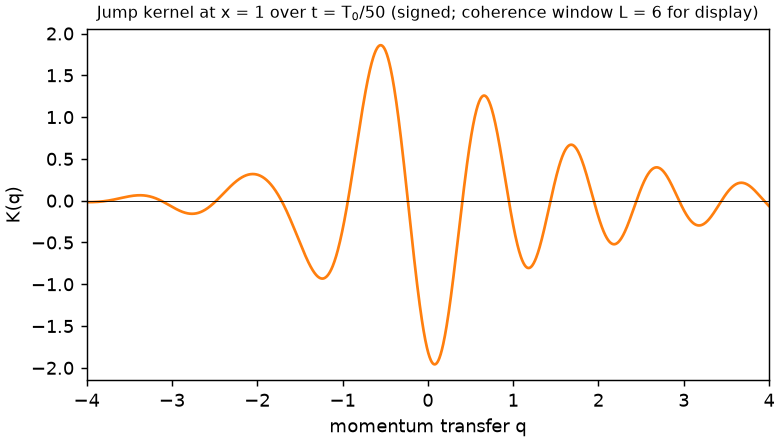
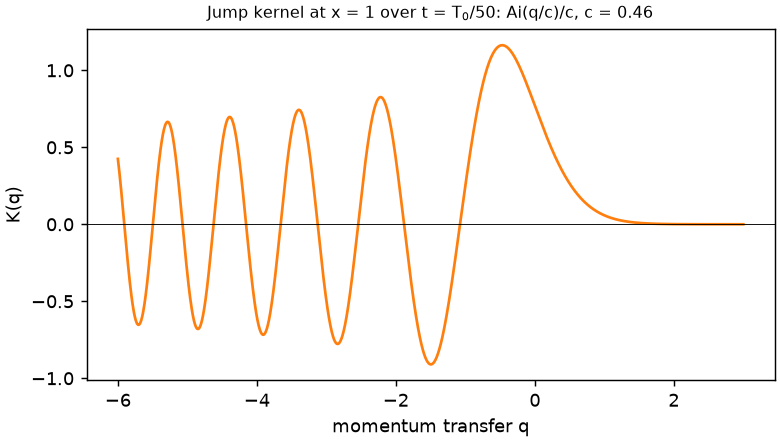
Add section on classical trajectories with signed momentum jumps
New §6.2 (sec:jumps): the integral form of the Wigner equation read as free
classical flight plus signed pair jumps; kernel moments; the lattice case,
where the force is a centered difference in p with step hbar k; the Airy
kernel for x^4/4; numerical check; sign problem; credits Nedjalkov et al.
(2004) and Sellier (2015).  Corrects the §6.1 sentence that called the exact
form Liouville flow in a modified potential.

Adds lattice_jump_sim.py and fixes kernel.png, which showed window ringing
rather than the exact Airy kernel.

diff --git a/paper.tex b/paper.tex
@@ -270,7 +270,7 @@ with $\hat{V}(x,0,t) = V(x,t)$.  By the fundamental theorem of calculus,
 \begin{equation}\label{eq:lg-identity}
 \hat{p}\,\frac{\partial \hat{V}}{\partial x} = V(x+\hat{p}/2,t) - V(x-\hat{p}/2,t)
 \end{equation}
-holds exactly.  Replacing $V$ by $\hat{V}$ in the Fourier-transformed Liouville equation (\ref{eq:w-hat-pde-vprime}) therefore yields (\ref{eq:w-hat-pde}) with no remainder: \emph{Schr\"odinger dynamics in the potential $V$ is classical Liouville dynamics, in the $\hat{w}$ representation, in the looking-glass potential $\hat{V}$.}  Applied to the potential as well as to the distribution, the looking-glass transform is an exact equivalence.  The only change is that the force $-\partial V/\partial x$ at the point $x$ is replaced by its average over the segment from $z_-$ to $z_+$.
+holds exactly.  Replacing $V$ by $\hat{V}$ in the force term of the Fourier-transformed Liouville equation (\ref{eq:w-hat-pde-vprime}) therefore yields (\ref{eq:w-hat-pde}) with no remainder.  The only change is that the force $-\partial V/\partial x$ at the point $x$ is replaced by its average over the segment from $z_-$ to $z_+$.  Because $\hat{V}$ depends on $\hat{p}$, this is not Liouville flow in a modified potential: back in phase space the averaged force acts by convolution in $p$ (below), and Section~\ref{sec:jumps} reads the result as classical trajectories with signed momentum jumps.
 
 The correction is the difference $\delta\hat{V} = \hat{V} - V$.  Expanding (\ref{eq:lg-potential}) in a Taylor series,
 \begin{equation}\label{eq:lg-series}
@@ -297,6 +297,70 @@ J_p(x,p,t) = -\frac{\partial V}{\partial x}\,w - \int_{-\infty}^{+\infty} dq\, \
 The first term is the classical flux of (\ref{eq:classical-pde}); the second is the whole quantum correction.  For a quadratic potential $\delta V = -(\hbar^2 V''/24)\,\delta''(q)$ does not depend on $x$, so the correction vanishes.  For $V = x^4/4$, $\delta V = -(\hbar^2x^2/8)\,\delta''(q) + (\hbar^4/320)\,\delta''''(q)$, which reproduces the $\hbar^2$ term above.  The correction is local in $x$ but spread over momentum transfers $q$, so it is not an ordinary Hamiltonian function $H(x,p)$ entering through a Poisson bracket; because the dynamics keeps its flux form, a uniform background $w \rightarrow w + c$ remains invisible to it, as in Section~\ref{sec:positivity}.
 
 The size of the correction is set by the coherence length rather than by $\hbar$ alone.  The variable $\hat{p} = z_+ - z_-$ is the separation between the two branches, and the correction is negligible when $\hat{w}$ is concentrated at $|\hat{p}|$ small compared with the length over which $\partial^2 V/\partial x^2$ varies.  A smooth distribution of momentum width $\Delta p$ has $|\hat{p}| \lesssim \hbar/\Delta p$ and sees almost the bare potential.  An energy eigenstate carries coherence across its entire classical orbit, so its averaging segment is as long as the orbit and the correction is of order one at every quantum number, the semiclassical regime included.  Filamentation narrows a classical distribution in $p$ and so widens $\hat{w}$ in $\hat{p}$: the averaging segment grows with time, which is the mechanism of the secular divergence described above.  The same coefficient $1/24$ appears in the Feynman--Hibbs effective potential of quantum statistical mechanics \cite{feynman1965}, a Gaussian thermal smearing of $V$ whose leading correction is $(\hbar^2\beta/24M)\,\partial^2 V/\partial x^2$.
+
+\subsection{Classical trajectories with signed momentum jumps}\label{sec:jumps}
+Section~\ref{sec:lg-potential} kept the classical force and added a correction.  Returning the \emph{whole} force term of (\ref{eq:w-hat-pde}) to phase space gives a simpler picture: particles fly freely between events, and the force acts by moving signed weight across finite momentum transfers.  In (\ref{eq:w-hat-pde}) the force enters as the multiplier $\hat{w}_t = (i/\hbar)[V(z_+,t)-V(z_-,t)]\,\hat{w} + \cdots$.  A product in $\hat{p}$ is a convolution in $p$, so, with nothing dropped,
+\begin{equation}\label{eq:jump-equation}
+w_t + \frac{p}{M}\,w_x = \int_{-\infty}^{+\infty} dq\; \Theta(x,q,t)\, w(x,p-q,t) \,,
+\end{equation}
+\begin{equation}\label{eq:jump-kernel}
+\Theta(x,q,t) = \int_{-\infty}^{+\infty} \frac{d\hat{p}}{2\pi\hbar}\, e^{+i\hat{p}q/\hbar}\, \frac{i}{\hbar}\left[V(x+\hat{p}/2,t) - V(x-\hat{p}/2,t)\right] \,.
+\end{equation}
+This is the integral form of the Wigner equation \cite{wigner1932,hillery1984}.  The bracket is real and odd in $\hat{p}$, so $\Theta$ is real and odd in $q$.  The left side of (\ref{eq:jump-equation}) is classical free flight; the right side replaces the classical force term $(\partial V/\partial x)\, w_p$, which corresponds to the kernel $(\partial V/\partial x)\,\delta'(q)$.  The difference between the two kernels, $\partial^2 \delta V/\partial q\,\partial x$, is the correction flux of (\ref{eq:lg-flux}).
+
+Read (\ref{eq:jump-equation}) as a rule for particles.  Because $\Theta$ is odd, its effect comes in pairs: in a time $dt$, a particle at $(x,p)$ produces a copy of weight $+\Theta(x,q)\,dq\,dt$ at $p+q$ and a copy of the opposite weight at $p-q$, for each $q > 0$.  The moments of the kernel say what these pairs do:
+\begin{equation}\label{eq:jump-moments}
+\int \Theta\, dq = 0 \,, \qquad
+\int q\,\Theta\, dq = -\frac{\partial V}{\partial x} \,, \qquad
+\int q^2\,\Theta\, dq = 0 \,, \qquad
+\int q^3\,\Theta\, dq = \frac{\hbar^2}{4}\frac{\partial^3 V}{\partial x^3} \,.
+\end{equation}
+The pairs create no probability.  On average they deliver exactly the classical force, and at each $x$ they change the first two momentum moments of $w$ exactly as the classical force does.  They first differ from the classical force at the third moment; expanding $w(x,p-q)$ in powers of $q$ recovers the Moyal series (\ref{eq:moyal-full}) term by term.  The motion between events is classical and the average push is classical; what is not classical is that weight branches into signed pairs, so this is not a Liouville flow along a Hamiltonian vector field.
+
+\textit{A lattice: discrete jumps.}  For a single Fourier mode the kernel is a pair of delta functions.  For $V = -V_0 \cos kx$,
+\begin{equation}\label{eq:jump-lattice}
+w_t + \frac{p}{M}\,w_x = \frac{V_0 \sin kx}{\hbar}\left[ w\!\left(x,p+\tfrac{\hbar k}{2},t\right) - w\!\left(x,p-\tfrac{\hbar k}{2},t\right) \right] \,.
+\end{equation}
+The force term is a centered difference in momentum with step $\hbar k$, the counterpart of the centered difference in position (\ref{eq:approximation-derivative}) on which the looking-glass transform is built, and it becomes $(\partial V/\partial x)\,w_p$ as $\hbar k \rightarrow 0$.  Every jump is exactly $\pm\hbar k/2$, and a general potential contributes such a pair of jumps for each of its Fourier components.  The half-step is a feature of $w$, not of measured momenta: $w$ places interference terms midway between momentum components, and these integrate to zero over $x$.
+
+\textit{Polynomial potentials: Airy jumps.}  For a polynomial potential $\Theta$ is a finite sum of derivatives of $\delta(q)$, and (\ref{eq:jump-equation}) is the terminating Moyal equation.  The jumps then appear over a finite time step $\Delta t$.  For $V = x^4/4$, the classical kick plus the residual multiplier $\exp(i\,\Delta t\, x\hat{p}^3/4\hbar)$ is exact, and the residual's kernel is an Airy function,
+\begin{equation}\label{eq:jump-airy}
+K_{\Delta t}(x,q) = \frac{1}{|c|}\,\mathrm{Ai}\!\left(\frac{q}{c}\right) \,, \qquad c = \left(\frac{3\hbar^2 x\, \Delta t}{4}\right)^{1/3} \,.
+\end{equation}
+Its width grows as $(\hbar^2\Delta t)^{1/3}$: the redistribution is neither a drift nor a diffusion.
+
+\textit{Numerical check.}  We tested (\ref{eq:jump-equation}) against exact quantum evolution in an eigenbasis ($\hbar = M = 1$), applying the jump kernel deterministically to $w$ on a phase-space grid.  The classical baseline evolves the same initial $w$ without jumps.  In the quartic well $V = x^4/4$, over six classical periods $T_0$, we evolved the ground state and a Gaussian of width $0.6$ displaced to $x = 1.5$.  In the lattice $V = -20\cos 2\pi x$, we evolved a Gaussian of width $1.5$ sites at rest on a well, in a periodic box of 64 sites; there the classical baseline is $4\times10^5$ sampled trajectories, because classical filaments outrun any fixed momentum grid.  Table~\ref{tab:jumps} reports the total-variation distance between the Born densities $\int w\,dp$ and the exact $|\Psi|^2$.  Figure~\ref{fig:jumps} shows the quartic case.  In the lattice, 97\% of the classical particles start below the barrier and stay trapped in their wells; with the jumps the packet spreads through the lattice by tunnelling, and its width follows the exact quantum width (Figure~\ref{fig:lattice}).  Since (\ref{eq:jump-equation}) is an identity, agreement is guaranteed up to discretization.  The tests check the decomposition, and they measure how much of the dynamics the jumps carry: all of the difference between classical and quantum evolution.
+
+\begin{table}[htbp]
+\centering
+\begin{tabular}{lcc}
+\hline
+Born-density distance from exact quantum & classical flow & trajectories $+$ jumps \\
+\hline
+Quartic ground state, $t \le 6T_0$ & $0.063$ & $< 10^{-5}$ \\
+Quartic displaced Gaussian, $t \le 6T_0$ & $0.31$--$0.50$ & $\le 1.6\times 10^{-3}$ \\
+Lattice Gaussian, $0.3 \le t \le 3$ & $0.17$--$0.34$ & $\le 3.4\times 10^{-4}$ \\
+\hline
+\end{tabular}
+\caption{Total-variation distance $\frac{1}{2}\int|\rho - |\Psi|^2|\,dx$ between the Born density of the evolved $w$ and exact quantum evolution.  Classical flow drops the jumps of (\ref{eq:jump-equation}); trajectories $+$ jumps keep them.}
+\label{tab:jumps}
+\end{table}
+
+\begin{figure}[htbp]
+\centering
+\includegraphics[width=\textwidth]{signed_particle_sim_out/born.png}
+\caption{Born densities in $V = x^4/4$ ($\hbar = M = 1$) at $t = T_0$, $3T_0$ and $6T_0$.  Top: the ground state, which is stationary.  Bottom: a displaced Gaussian.  Exact quantum evolution (black), classical flow (dashed), and classical trajectories with the signed jumps of (\ref{eq:jump-equation}) (orange).  Classical flow filaments; the jumps restore the interference pattern.}
+\label{fig:jumps}
+\end{figure}
+
+\begin{figure}[htbp]
+\centering
+\includegraphics[width=0.6\textwidth]{lattice_jump_sim_out/spread.png}
+\caption{Root-mean-square width of a Gaussian packet in the lattice $V = -20\cos 2\pi x$ ($\hbar = M = 1$, width in lattice sites).  Classical trajectories stay mostly trapped in their wells; classical trajectories with the jumps of (\ref{eq:jump-lattice}), each exactly $\pm\hbar k/2$, spread by tunnelling and track exact quantum evolution.}
+\label{fig:lattice}
+\end{figure}
+
+\textit{Particles and the sign problem.}  This reading is the basis of signed-particle Monte Carlo methods for Wigner transport in semiconductor devices \cite{nedjalkov2004}, where particles follow classical trajectories and the kernel $\Theta$ (there called the Wigner potential) creates $\pm$ particle pairs.  Sellier promoted that method to a formulation of non-relativistic quantum mechanics in its own right: quantum systems as ensembles of field-less classical particles that carry a sign and interact with the potential only through creation and annihilation events \cite{sellier2015}.  Here the same picture arises from the classical side, as the phase-space form of the looking-glass potential, and (\ref{eq:jump-lattice}) shows its simplest case: in a lattice the creation events are a centered difference.  Sampled one particle at a time, the pairs carry a cost: each pair leaves $\int w$ unchanged but adds $2|\Theta|\,dq\,dt$ to $\int |w|$, so the total absolute weight grows exponentially unless positive and negative copies are allowed to annihilate.  In our quartic test, stochastic pairs drove the total absolute weight from $1.2$ to $5$ within 50 time steps and to $5\times 10^5$ within 200.  Applied deterministically, as above, the same kernel has no such growth.  The exact dynamics is therefore classical in its trajectories and in its mean force, with the quantum content carried by signed branching of the weight.
 
 \section{The Born Projection}\label{sec:born}
 

diff --git a/lattice_jump_sim.py b/lattice_jump_sim.py
@@ -1,0 +1,198 @@
+#!/usr/bin/env python3
+"""
+Discrete momentum jumps in a lattice, V = -V0 cos(k x): quantum dynamics as
+classical free flight plus a force that acts by finite jumps of +/- hbar k / 2.
+
+For one Fourier mode the force term of the w-hat equation is exact without any
+expansion:
+
+    (i/hbar)[V(x + p-hat/2) - V(x - p-hat/2)] = (2 i V0 / hbar) sin(kx) sin(k p-hat / 2),
+
+and in phase space this is a centred difference in p with step hbar k:
+
+    w_t |force = (V0 sin kx / hbar) [ w(x, p + hbar k/2) - w(x, p - hbar k/2) ].
+
+Classically (hbar -> 0) the difference becomes hbar k w_p and the term becomes
+V'(x) w_p, the Liouville force term.  Read as particles: at rate
+r = V0 sin(kx)/hbar, weight at p sends a + copy to p - hbar k/2 and a - copy to
+p + hbar k/2.  The signed pair carries momentum -r hbar k = -V'(x) per unit time
+on average (the classical force); its higher moments are the quantum correction.
+
+The scheme below is a Strang split: exact free flight (FFT in x) and the jump
+equation integrated by RK4 using np.roll in p (hbar k / 2 is a whole number of
+momentum cells).  The "classical flow" baseline is the same initial w carried
+by sampled classical particle trajectories (leapfrog), binned cloud-in-cell;
+a grid Liouville solver is not used because classical filaments become finer
+than any fixed momentum grid.
+
+Test (hbar = M = 1, lattice spacing 1, k = 2 pi, V0 = 20): a Gaussian of width
+1.5 sites at rest, centred on a well, in a periodic box of 64 sites.  Classically
+most particles start below the barrier and stay trapped in their wells; quantum
+mechanically the packet spreads through the lattice by tunnelling.  The
+reference is exact evolution in the plane-wave eigenbasis of the same box.
+
+Numerical notes.  The (x, p) grid with x periodic in L represents each branch
+psi+- on a ring of length 2L, while the quantum reference lives on a ring of
+length L; the two agree only until the spreading packet's tails reach the box
+edge, hence the 64-site box.  Snapshots are compared at the actual step times.
+
+Outputs (in lattice_jump_sim_out/): born.png, spread.png, summary.txt
+"""
+
+import os
+import numpy as np
+import matplotlib
+matplotlib.use("Agg")
+import matplotlib.pyplot as plt
+
+OUT = os.path.join(os.path.dirname(os.path.abspath(__file__)), "lattice_jump_sim_out")
+os.makedirs(OUT, exist_ok=True)
+
+# ---------------------------------------------------------------- parameters
+HBAR = 1.0
+K = 2 * np.pi            # lattice wavenumber (spacing 1)
+V0 = 20.0
+L = 64.0                 # periodic box, 64 sites
+NX = 2048
+M_SHIFT = 64             # hbar k / 2 = M_SHIFT momentum cells
+NP = 2048
+SIGMA = 1.5
+T_END = 3.0
+T_OSC = 2 * np.pi / (K * np.sqrt(V0))   # small-oscillation period in a well
+DT = T_OSC / 200
+NSAMP = 31
+
+x = -L / 2 + L * np.arange(NX) / NX
+dx = x[1] - x[0]
+dp = HBAR * K / 2 / M_SHIFT
+p = (np.arange(NP) - NP // 2) * dp
+kx = 2 * np.pi * np.fft.fftfreq(NX, d=dx)
+DRIFT = np.exp(-1j * np.outer(kx, p) * DT / 2)      # half drift: w(x - p dt/2, p)
+RATE = (V0 * np.sin(K * x) / HBAR)[:, None]          # jump rate r(x)
+NPART = 400_000
+
+
+def jump_rhs(w):
+    """(V0 sin kx / hbar) [w(p + hbar k/2) - w(p - hbar k/2)]."""
+    return RATE * (np.roll(w, -M_SHIFT, axis=1) - np.roll(w, M_SHIFT, axis=1))
+
+
+def jumps(w, h):
+    k1 = jump_rhs(w)
+    k2 = jump_rhs(w + h / 2 * k1)
+    k3 = jump_rhs(w + h / 2 * k2)
+    k4 = jump_rhs(w + h * k3)
+    return w + h / 6 * (k1 + 2 * k2 + 2 * k3 + k4)
+
+
+def drift(w):
+    return np.fft.ifft(np.fft.fft(w, axis=0) * DRIFT, axis=0).real
+
+
+def step(w):
+    return drift(jumps(drift(w), DT))
+
+
+def force(xp):
+    return -V0 * K * np.sin(K * xp)
+
+
+def cic(xp):
+    """Cloud-in-cell density of particles on the periodic x grid."""
+    u = (xp - x[0]) / dx
+    i = np.floor(u).astype(int)
+    f = u - i
+    rho = np.bincount(i % NX, 1 - f, NX) + np.bincount((i + 1) % NX, f, NX)
+    return rho / (xp.size * dx)
+
+
+# ---------------------------------------------------------------- exact quantum reference
+NB = 1280
+n = np.arange(-NB // 2, NB // 2)
+pn = 2 * np.pi * HBAR * n / L
+G = int(round(K * L / (2 * np.pi)))                   # V couples n to n +/- G
+H = np.diag(pn**2 / 2)
+H[np.arange(NB - G), np.arange(G, NB)] = -V0 / 2
+H[np.arange(G, NB), np.arange(NB - G)] = -V0 / 2
+E, U = np.linalg.eigh(H)
+psi0 = (np.pi * SIGMA**2) ** -0.25 * np.exp(-x**2 / (2 * SIGMA**2))
+basis = np.exp(1j * np.outer(x, pn) / HBAR) / np.sqrt(L)     # (NX, NB)
+c0 = basis.conj().T @ psi0 * dx
+captured = float(np.sum(np.abs(c0) ** 2))
+a0 = U.conj().T @ c0
+
+
+def born_quantum(t):
+    psi = basis @ (U @ (a0 * np.exp(-1j * E * t / HBAR)))
+    return np.abs(psi) ** 2
+
+
+# ---------------------------------------------------------------- runs
+X, P = np.meshgrid(x, p, indexing="ij")
+w0 = np.exp(-X**2 / SIGMA**2 - SIGMA**2 * P**2 / HBAR**2) / (np.pi * HBAR)
+ts = np.linspace(0, T_END, NSAMP)
+sample_steps = np.round(ts / DT).astype(int)
+ts = sample_steps * DT                                # actual sample times
+runs = {}
+w, snaps, k = w0.copy(), [], 0
+for s in range(sample_steps[-1] + 1):
+    if s == sample_steps[k]:
+        snaps.append(w.sum(axis=1) * dp)
+        k += 1
+        if k == NSAMP:
+            break
+    w = step(w)
+runs["trajectories + jumps"] = np.array(snaps)
+print("trajectories + jumps: done", flush=True)
+
+rng = np.random.default_rng(1)
+xp = rng.normal(0, SIGMA / np.sqrt(2), NPART)
+pp = rng.normal(0, HBAR / (SIGMA * np.sqrt(2)), NPART)
+free = np.mean(pp**2 / 2 - V0 * np.cos(K * xp) > V0)
+snaps, k = [], 0
+for s in range(sample_steps[-1] + 1):
+    if s == sample_steps[k]:
+        snaps.append(cic(xp))
+        k += 1
+        if k == NSAMP:
+            break
+    pp += DT / 2 * force(xp)
+    xp = (xp + DT * pp + L / 2) % L - L / 2
+    pp += DT / 2 * force(xp)
+runs = {"classical flow": np.array(snaps), **runs}
+print("classical flow: done", flush=True)
+born_q = np.array([born_quantum(t) for t in ts])
+tv = {lab: 0.5 * np.abs(b - born_q).sum(axis=1) * dx for lab, b in runs.items()}
+rms = {lab: np.sqrt((b * x**2).sum(axis=1) * dx) for lab, b in list(runs.items()) + [("exact quantum", born_q)]}
+
+lines = ["Lattice V = -V0 cos(kx), quantum force as jumps of +/- hbar k/2 (hbar = M = 1)",
+         f"k = 2 pi, V0 = {V0}, box {L:g} sites, grid {NX} x {NP}, dp = hbar k / {2 * M_SHIFT},"
+         f" dt = T_osc/200, T_osc = {T_OSC:.4f}",
+         f"initial Gaussian width {SIGMA} sites at rest; plane-wave basis captures {captured:.8f}",
+         f"classical: {NPART} particles, fraction above the barrier (untrapped) = {free:.4f}",
+         "",
+         "     t      rms x: quantum  classical  jumps      Born TV: classical  jumps"]
+for i in range(0, NSAMP, 3):
+    lines.append(f"  {ts[i]:5.2f}   {rms['exact quantum'][i]:12.4f} {rms['classical flow'][i]:10.4f}"
+                 f" {rms['trajectories + jumps'][i]:7.4f}   {tv['classical flow'][i]:16.5f}"
+                 f"  {tv['trajectories + jumps'][i]:.2e}")
+summary = "\n".join(lines)
+print(summary)
+open(os.path.join(OUT, "summary.txt"), "w").write(summary + "\n")
+
+# ---------------------------------------------------------------- figures
+fig, axes = plt.subplots(1, 3, figsize=(13, 3.6), constrained_layout=True)
+for ax, i in zip(axes, [NSAMP // 6, NSAMP // 2, NSAMP - 1]):
+    ax.plot(x, born_q[i], "k", lw=2.5, label="exact quantum")
+    ax.plot(x, runs["classical flow"][i], "C0--", lw=1, label="classical flow")
+    ax.plot(x, runs["trajectories + jumps"][i], "C1", lw=1, label="trajectories + jumps")
+    ax.set_xlim(-12, 12); ax.set_xlabel("x (lattice sites)"); ax.set_title(f"t = {ts[i]:.1f}", fontsize=10)
+axes[0].legend(fontsize=8)
+fig.savefig(os.path.join(OUT, "born.png"), dpi=130)
+
+fig, ax = plt.subplots(figsize=(6, 3.6), constrained_layout=True)
+ax.plot(ts, rms["exact quantum"], "k", lw=2.5, label="exact quantum")
+ax.plot(ts, rms["classical flow"], "C0--", label="classical flow (trapped)")
+ax.plot(ts, rms["trajectories + jumps"], "C1", label="trajectories + jumps")
+ax.set_xlabel("t"); ax.set_ylabel("rms x (lattice sites)"); ax.legend(fontsize=8)
+fig.savefig(os.path.join(OUT, "spread.png"), dpi=130)

diff --git a/signed_particle_sim.py b/signed_particle_sim.py
@@ -16,7 +16,8 @@ because V(x+p-hat/2) - V(x-p-hat/2) = p-hat x^3 + x p-hat^3/4 for the quartic we
 Without the jump factor the scheme is classical Liouville flow; with it, it is
 quantum dynamics.  In p the jump factor is a real, signed kernel K(q): the
 correction does not move phase-space points but redistributes signed weight
-across momentum transfers q.
+across momentum transfers q.  Over a step dt the kernel is exactly an Airy
+function, K(q) = Ai(q/c)/c with c = (3 x dt / 4)^(1/3).
 
 Why deterministic.  The jump kernel can be sampled as a signed-particle Monte
 Carlo (Nedjalkov et al., Phys. Rev. B 70, 115319 (2004)): particles fly
@@ -42,6 +43,7 @@ matplotlib.use("Agg")
 import matplotlib.pyplot as plt
 from scipy.linalg import eigh_tridiagonal
 from scipy.interpolate import CubicSpline
+from scipy.special import airy
 
 OUT = os.path.join(os.path.dirname(os.path.abspath(__file__)), "signed_particle_sim_out")
 os.makedirs(OUT, exist_ok=True)
@@ -188,13 +190,15 @@ for ax, (lab, w) in zip(axes, [("exact quantum", r["wq_end"]), ("classical flow"
     ax.set_xlabel("x"); ax.set_ylabel("p")
 fig.savefig(os.path.join(OUT, "wigner.png"), dpi=130)
 
-# the jump kernel at x = 1 over T0/50: signed weight moved by momentum transfer q
-nq, dq = 4096, 0.005
-phq = 2 * np.pi * np.fft.fftfreq(nq, d=dq)
-K = np.fft.fftshift(np.fft.ifft(np.exp(1j * T0 / 50 * phq**3 * np.exp(-(phq / 6) ** 8) / 4) - 1)).real / dq
-qq = (np.arange(nq) - nq // 2) * dq
+# the jump kernel at x = 1 over T0/50: signed weight moved by momentum transfer q.
+# The inverse transform of e^{i a p-hat^3} (a = x dt / 4, hbar = 1) is exactly an Airy
+# function, K(q) = Ai(q / c) / c with c = (3a)^(1/3).
+a = 1.0 * (T0 / 50) / 4
+c = (3 * a) ** (1 / 3)
+qq = np.linspace(-6, 3, 2000)
+K = airy(qq / c)[0] / c
 fig, ax = plt.subplots(figsize=(6, 3.4), constrained_layout=True)
 ax.plot(qq, K, color="C1"); ax.axhline(0, color="k", lw=0.5)
-ax.set_xlim(-4, 4); ax.set_xlabel("momentum transfer q"); ax.set_ylabel("K(q)")
-ax.set_title("Jump kernel at x = 1 over t = T$_0$/50 (signed; coherence window L = 6 for display)", fontsize=9)
+ax.set_xlabel("momentum transfer q"); ax.set_ylabel("K(q)")
+ax.set_title(f"Jump kernel at x = 1 over t = T$_0$/50: Ai(q/c)/c, c = {c:.2f}", fontsize=9)
 fig.savefig(os.path.join(OUT, "kernel.png"), dpi=130)
